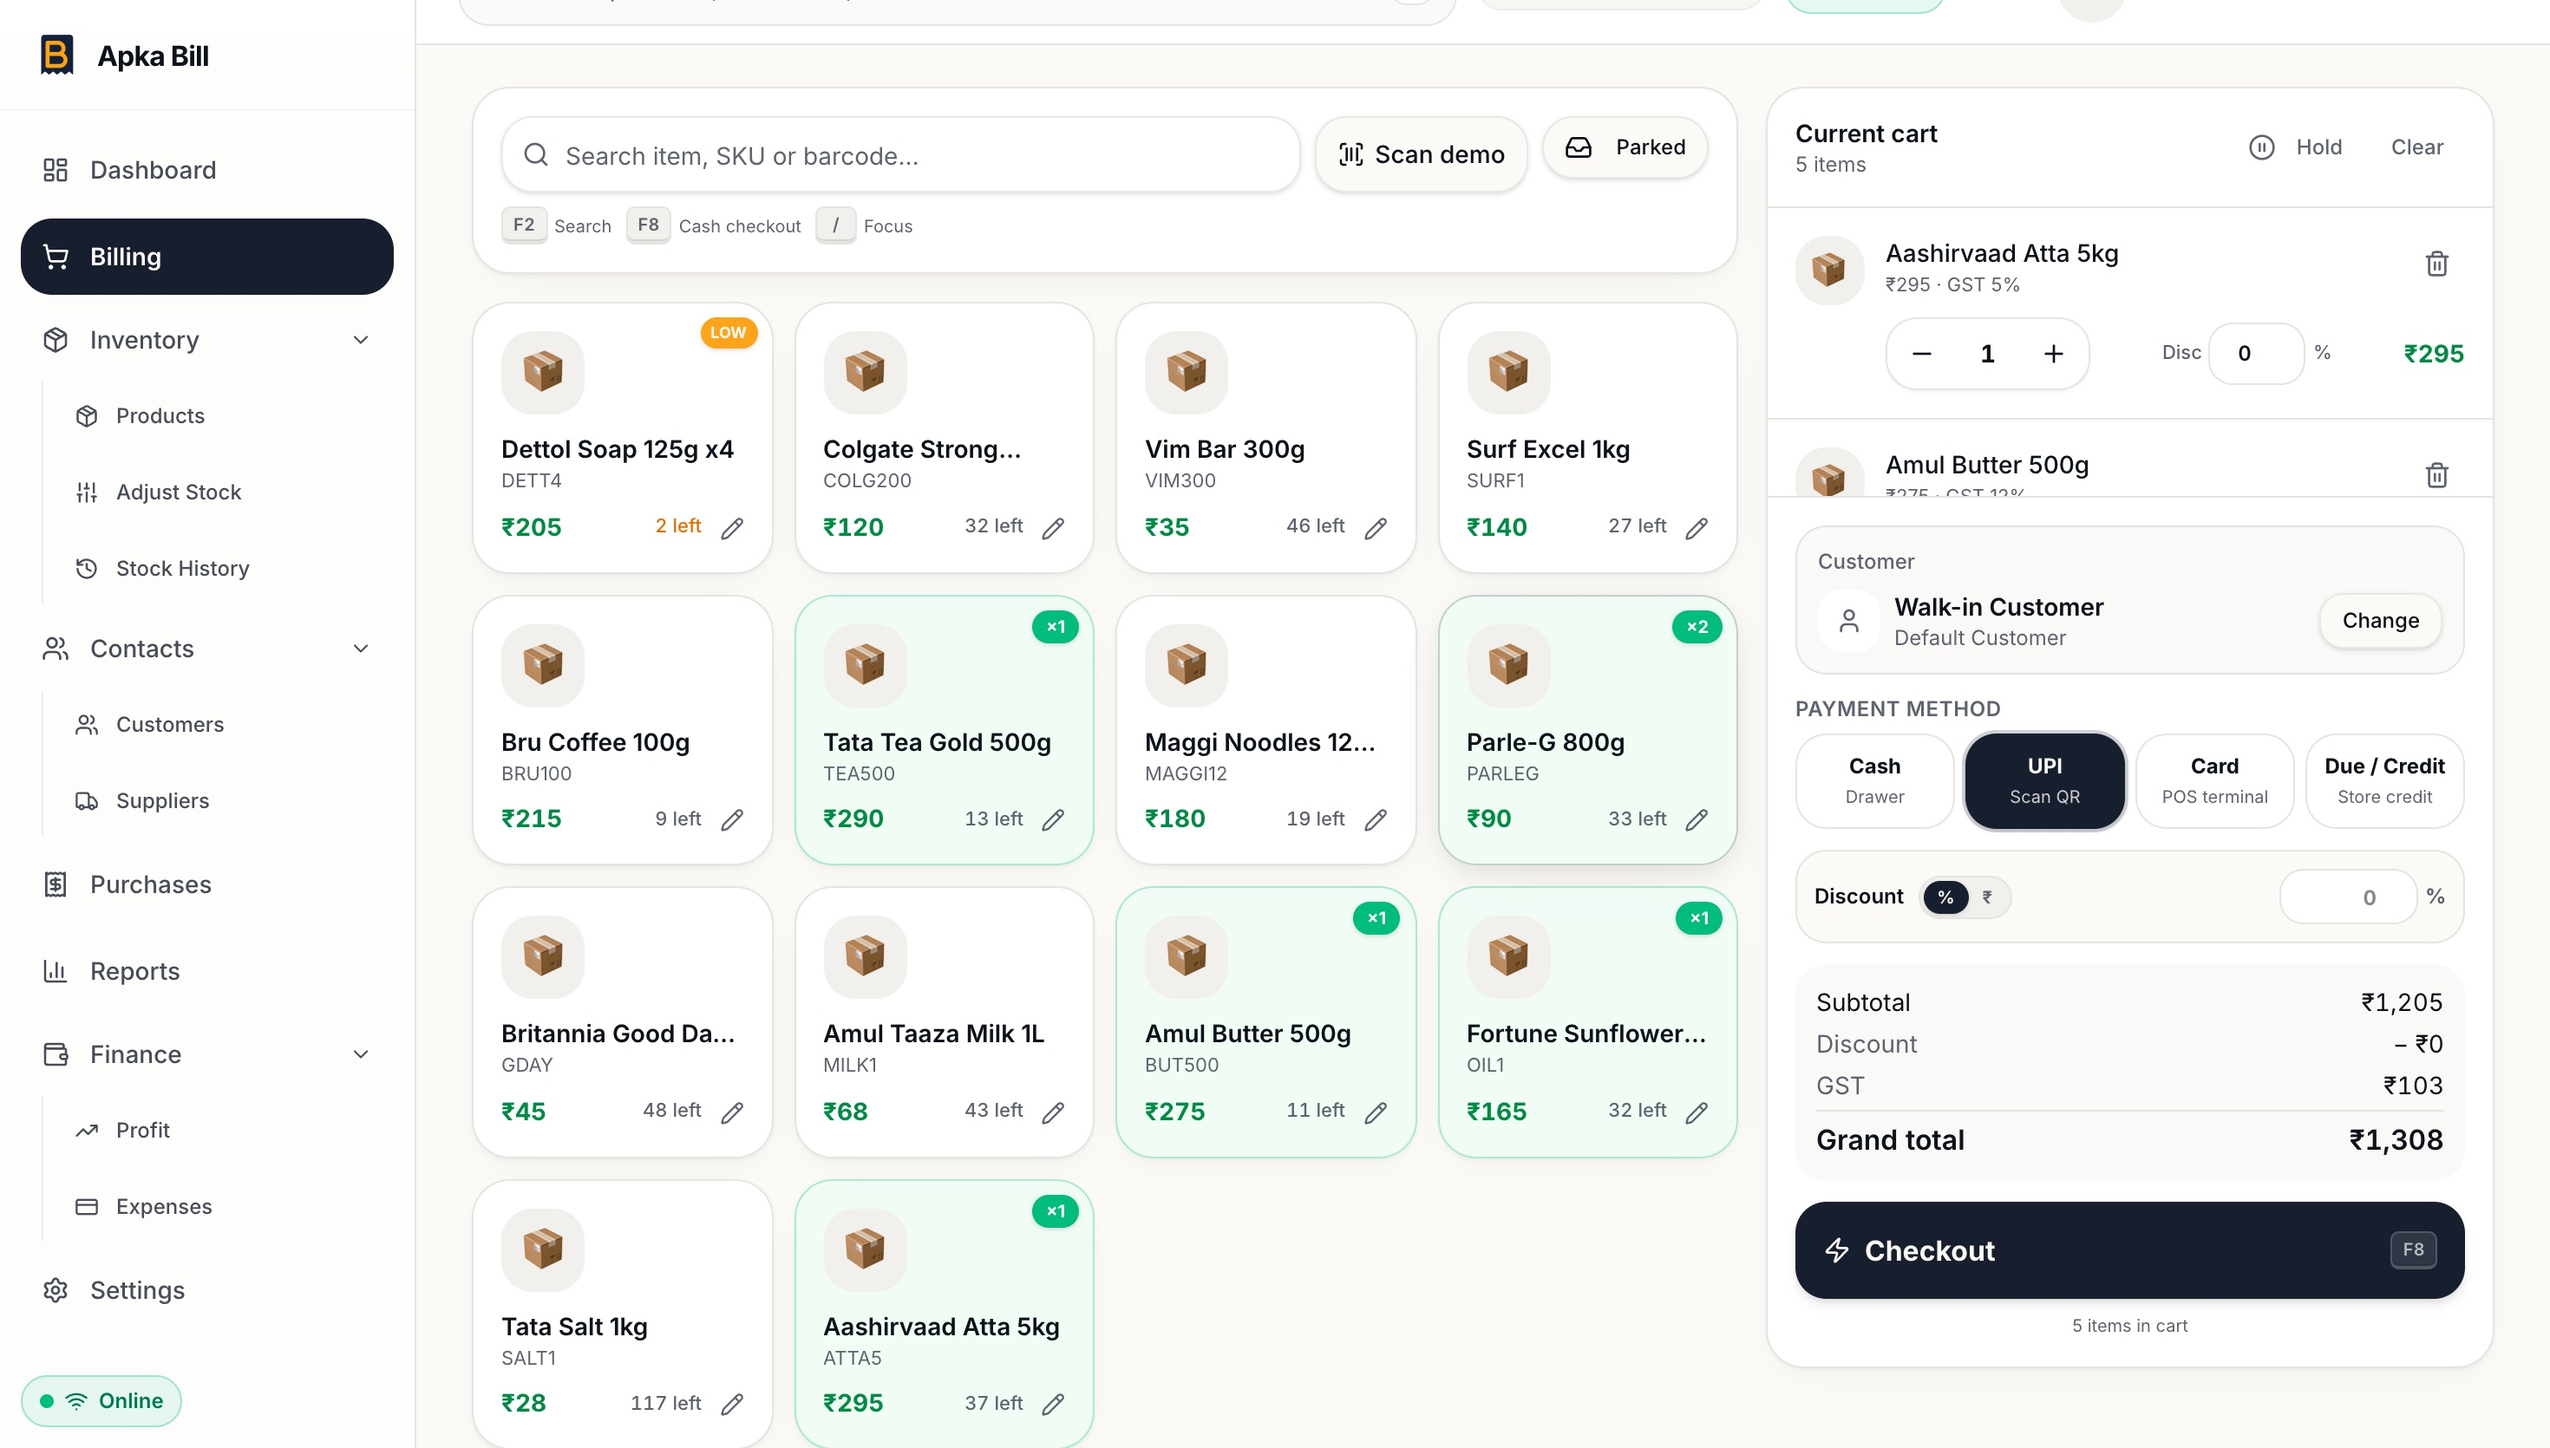
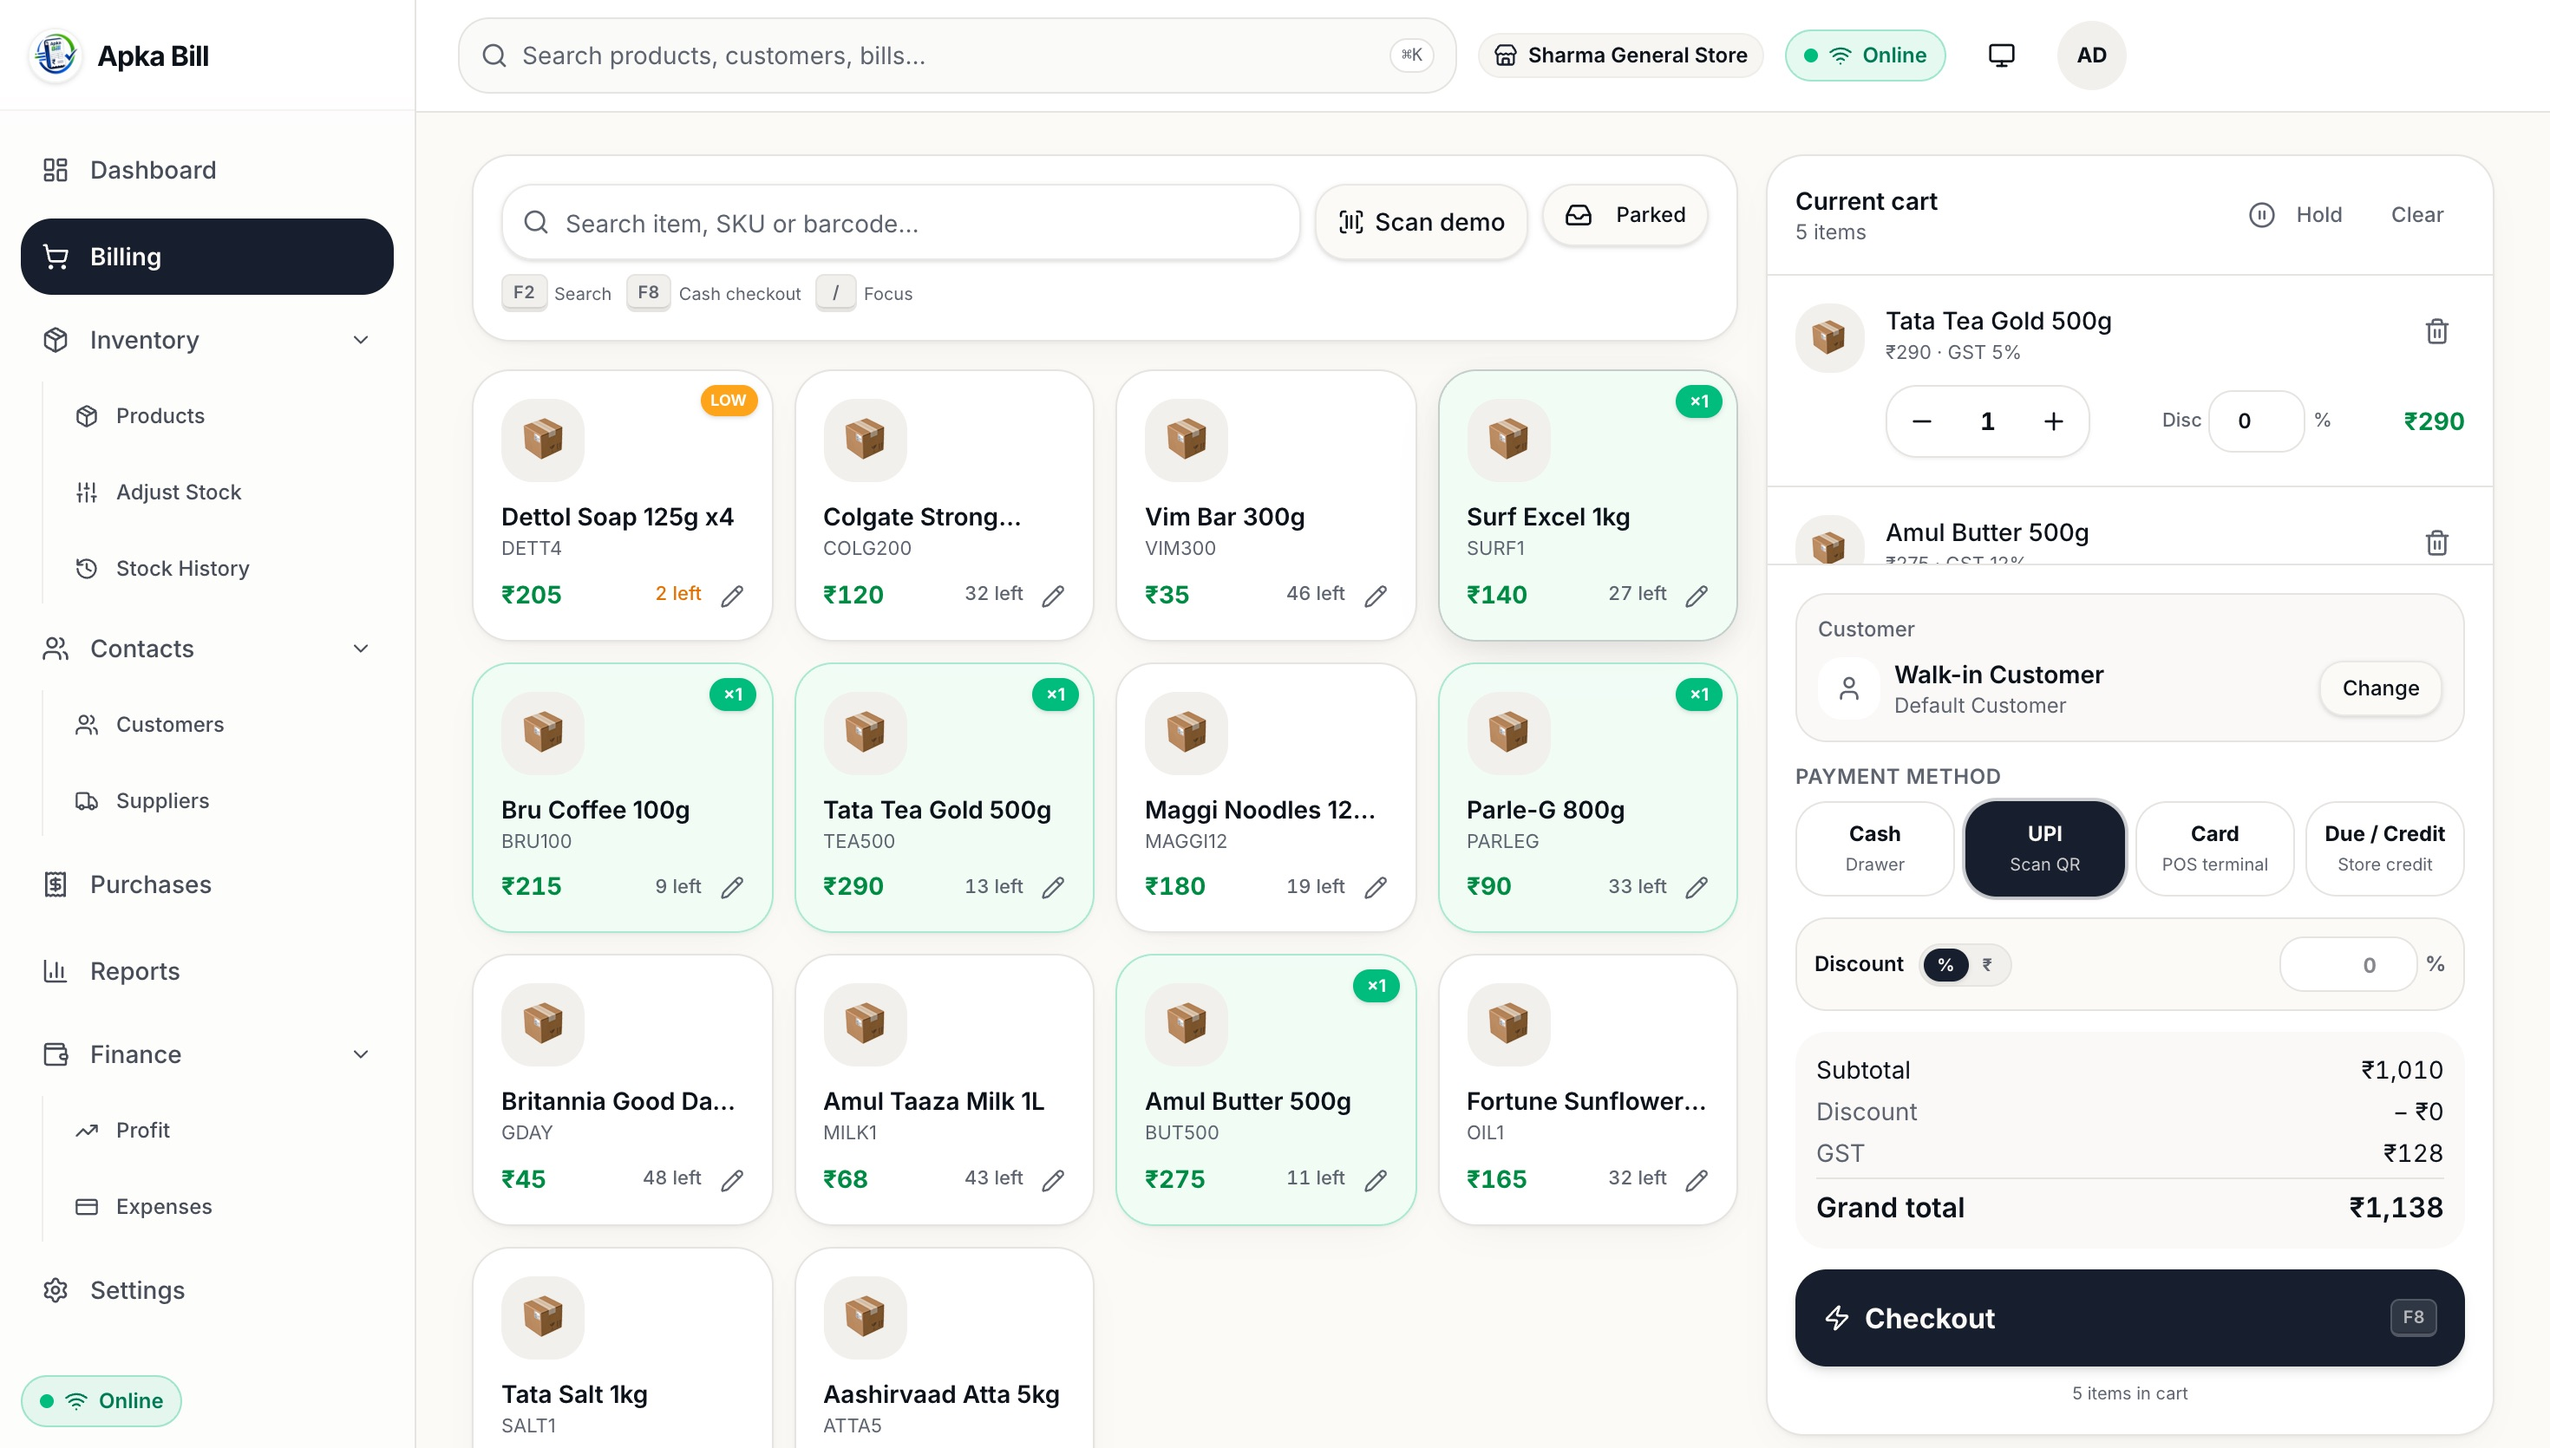
feat(web): complete the landing page
Adds Get started (nav, hero), core benefits, real dashboard and inventory
screens, an Android app section, a get-started section that says how
accounts are created, and footer links. Screenshots and the link-preview
card are recaptured from a local demo shop with the restored logo. No
pricing, testimonials or customer numbers: none are verified.

diff --git a/frontend/src/components/landing-page.tsx b/frontend/src/components/landing-page.tsx
@@ -1,5 +1,8 @@
 import {
+  BadgeIndianRupee,
   Boxes,
+  Clock,
+  Smartphone,
   ChefHat,
   FileBarChart,
   IndianRupee,
@@ -36,6 +39,18 @@ const steps = [
   { title: "Check your day", text: "Sales, dues and low stock are on the dashboard when you need them." },
 ];
 
+const benefits = [
+  { icon: Clock, title: "Shorter queues", text: "Scan or search, take payment and print or share the bill in a few taps." },
+  { icon: WifiOff, title: "No lost sales offline", text: "The counter keeps billing when the network drops; bills sync later." },
+  { icon: BadgeIndianRupee, title: "Know what you're owed", text: "Customer dues, supplier balances and low stock are on one dashboard." },
+];
+
+const navLinks = [
+  { href: "#features", label: "Features" },
+  { href: "#how-it-works", label: "How it works" },
+  { href: "#faq", label: "FAQ" },
+];
+
 const businesses = ["Kirana & grocery", "General stores", "Mobile & electronics", "Clothing & fashion", "Restaurants & cafes"];
 
 const faqs = [
@@ -55,14 +70,16 @@ export function LandingPage() {
             Apka Bill
           </a>
           <div className="flex items-center gap-1 sm:gap-2">
-            <a href="#features" className="hidden sm:inline-flex h-11 items-center rounded-xl px-3 text-sm font-medium text-muted-foreground hover:text-foreground">
-              Features
-            </a>
-            <a href="#faq" className="hidden sm:inline-flex h-11 items-center rounded-xl px-3 text-sm font-medium text-muted-foreground hover:text-foreground">
-              FAQ
-            </a>
-            <a href="/login" className="inline-flex h-11 items-center rounded-xl bg-primary px-5 text-sm font-semibold text-primary-foreground shadow-sm hover:opacity-90">
+            {navLinks.map((l) => (
+              <a key={l.href} href={l.href} className="hidden md:inline-flex h-11 items-center rounded-xl px-3 text-sm font-medium text-muted-foreground hover:text-foreground">
+                {l.label}
+              </a>
+            ))}
+            <a href="/login" className="inline-flex h-11 items-center rounded-xl px-3 text-sm font-semibold hover:bg-muted">
               Log in
+            </a>
+            <a href="#get-started" className="inline-flex h-11 items-center rounded-xl bg-primary px-4 sm:px-5 text-sm font-semibold text-primary-foreground shadow-sm hover:opacity-90">
+              Get started
             </a>
           </div>
         </nav>
@@ -79,11 +96,11 @@ export function LandingPage() {
             working when the internet does not.
           </p>
           <div className="mt-8 flex flex-col gap-3 sm:flex-row">
-            <a href="/login" className="inline-flex h-12 items-center justify-center rounded-xl bg-primary px-6 text-base font-semibold text-primary-foreground shadow-sm hover:opacity-90">
-              Log in to your shop
+            <a href="#get-started" className="inline-flex h-12 items-center justify-center rounded-xl bg-primary px-6 text-base font-semibold text-primary-foreground shadow-sm hover:opacity-90">
+              Get started
             </a>
-            <a href="#features" className="inline-flex h-12 items-center justify-center rounded-xl border border-border px-6 text-base font-semibold hover:bg-muted">
-              See what it does
+            <a href="/login" className="inline-flex h-12 items-center justify-center rounded-xl border border-border px-6 text-base font-semibold hover:bg-muted">
+              Log in to your shop
             </a>
           </div>
         </section>
@@ -93,7 +110,7 @@ export function LandingPage() {
           <div className="flex items-end justify-center gap-6">
             <img
               src="/landing/billing-desktop.jpg"
-              alt="Apka Bill billing screen on a computer with five items in the cart and a grand total of ₹1,308 including GST"
+              alt="Apka Bill billing screen on a computer with five items in the cart and a grand total of ₹1,138 including GST"
               width={1470}
               height={835}
               loading="lazy"
@@ -108,6 +125,23 @@ export function LandingPage() {
               className="w-64 rounded-[2rem] border-4 border-foreground/80 shadow-xl sm:w-44 lg:w-52 sm:-ml-24 sm:mb-[-1.5rem]"
             />
           </div>
+        </section>
+
+        <section className="mx-auto max-w-6xl px-4 pb-16 sm:pb-20" aria-labelledby="benefits-title">
+          <h2 id="benefits-title" className="sr-only">Why shops use Apka Bill</h2>
+          <ul className="grid gap-6 sm:grid-cols-3">
+            {benefits.map((b) => (
+              <li key={b.title} className="flex gap-4">
+                <span className="grid size-12 shrink-0 place-items-center rounded-2xl bg-primary/10 text-primary">
+                  <b.icon className="size-6" aria-hidden />
+                </span>
+                <div>
+                  <h3 className="text-lg font-semibold">{b.title}</h3>
+                  <p className="mt-1 text-base text-muted-foreground">{b.text}</p>
+                </div>
+              </li>
+            ))}
+          </ul>
         </section>
 
         <section id="features" className="border-t border-border/60 bg-muted/30 py-16 sm:py-20">
@@ -125,7 +159,24 @@ export function LandingPage() {
           </div>
         </section>
 
-        <section className="py-16 sm:py-20">
+        <section className="py-16 sm:py-20" aria-labelledby="screens-title">
+          <div className="mx-auto max-w-6xl px-4">
+            <h2 id="screens-title" className="text-3xl font-bold tracking-tight sm:text-4xl">The real screens</h2>
+            <p className="mt-3 max-w-2xl text-lg text-muted-foreground">Captured from the app with a demo shop. No mockups.</p>
+            <div className="mt-10 grid gap-6 md:grid-cols-2">
+              <figure>
+                <img src="/landing/dashboard.jpg" alt="Apka Bill dashboard with today's sales, payment split and low-stock list" width={1470} height={835} loading="lazy" className="w-full rounded-2xl border border-border shadow-lg" />
+                <figcaption className="mt-3 text-base font-medium">Dashboard: sales, dues and low stock</figcaption>
+              </figure>
+              <figure>
+                <img src="/landing/inventory.jpg" alt="Apka Bill inventory list with stock levels and prices" width={1470} height={835} loading="lazy" className="w-full rounded-2xl border border-border shadow-lg" />
+                <figcaption className="mt-3 text-base font-medium">Inventory: stock that updates with every sale</figcaption>
+              </figure>
+            </div>
+          </div>
+        </section>
+
+        <section id="how-it-works" className="border-t border-border/60 py-16 sm:py-20">
           <div className="mx-auto max-w-6xl px-4">
             <h2 className="text-3xl font-bold tracking-tight sm:text-4xl">How it works</h2>
             <ol className="mt-10 grid gap-6 sm:grid-cols-3">
@@ -151,6 +202,20 @@ export function LandingPage() {
           </div>
         </section>
 
+        <section className="py-16 sm:py-20" aria-labelledby="mobile-title">
+          <div className="mx-auto grid max-w-6xl items-center gap-10 px-4 md:grid-cols-[1fr_auto]">
+            <div>
+              <Smartphone className="size-8 text-primary" aria-hidden />
+              <h2 id="mobile-title" className="mt-3 text-3xl font-bold tracking-tight sm:text-4xl">An Android app for the counter</h2>
+              <p className="mt-4 max-w-xl text-lg text-muted-foreground">
+                Bill from an Android phone or tablet with the same account. The app keeps working offline, prints to
+                58mm thermal printers and shares bills on WhatsApp. Ask the Apka Bill team for the app.
+              </p>
+            </div>
+            <img src="/landing/billing-phone.jpg" alt="Apka Bill billing screen on an Android phone" width={600} height={1200} loading="lazy" className="mx-auto w-56 rounded-[2rem] border-4 border-foreground/80 shadow-xl" />
+          </div>
+        </section>
+
         <section id="faq" className="py-16 sm:py-20">
           <div className="mx-auto max-w-3xl px-4">
             <h2 className="text-3xl font-bold tracking-tight sm:text-4xl">Questions</h2>
@@ -165,11 +230,15 @@ export function LandingPage() {
           </div>
         </section>
 
-        <section className="border-t border-border/60 py-16 sm:py-20">
-          <div className="mx-auto max-w-6xl px-4 text-center">
+        <section id="get-started" className="scroll-mt-20 border-t border-border/60 bg-muted/30 py-16 sm:py-20">
+          <div className="mx-auto max-w-3xl px-4 text-center">
             <h2 className="text-3xl font-bold tracking-tight sm:text-4xl">Ready to bill?</h2>
-            <a href="/login" className="mt-6 inline-flex h-12 items-center justify-center rounded-xl bg-primary px-8 text-base font-semibold text-primary-foreground shadow-sm hover:opacity-90">
-              Log in
+            <p className="mt-4 text-lg text-muted-foreground">
+              Shop accounts are set up by the Apka Bill team, with your stores and staff logins. Once you have your
+              login, everything above works from day one.
+            </p>
+            <a href="/login" className="mt-8 inline-flex h-12 items-center justify-center rounded-xl bg-primary px-8 text-base font-semibold text-primary-foreground shadow-sm hover:opacity-90">
+              Log in to your shop
             </a>
           </div>
         </section>
@@ -178,7 +247,12 @@ export function LandingPage() {
       <footer className="border-t border-border/60 py-8">
         <div className="mx-auto flex max-w-6xl flex-col gap-2 px-4 text-sm text-muted-foreground sm:flex-row sm:justify-between">
           <span>© {new Date().getFullYear()} Apka Bill</span>
-          <a href="/login" className="inline-flex h-11 items-center hover:text-foreground">Log in</a>
+          <nav aria-label="Footer" className="flex flex-wrap gap-x-4">
+            {navLinks.map((l) => (
+              <a key={l.href} href={l.href} className="inline-flex h-11 items-center hover:text-foreground">{l.label}</a>
+            ))}
+            <a href="/login" className="inline-flex h-11 items-center hover:text-foreground">Log in</a>
+          </nav>
         </div>
       </footer>
     </div>
